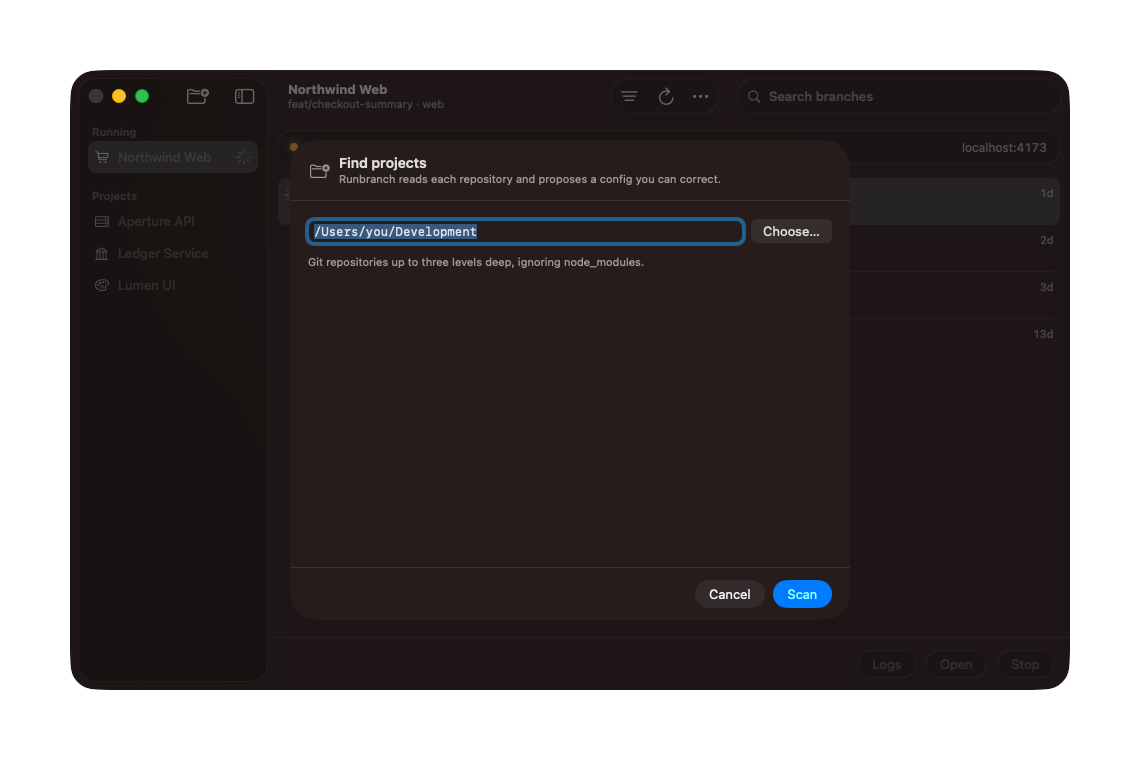
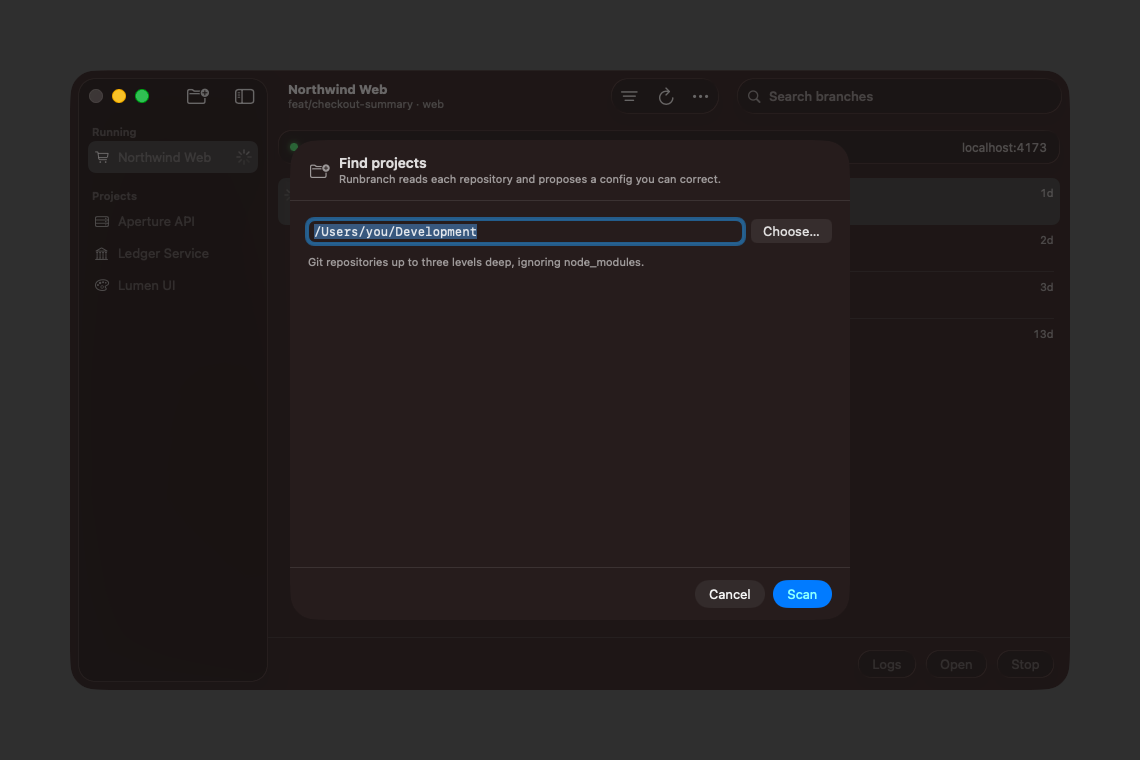
Fix the health indicator never updating, and give sheets their chrome back
RunStrip held the health monitor as a plain property rather than an
@ObservedObject, so it never subscribed to the monitor's changes and kept
whatever it drew first. A run that had gone healthy still read "Starting"
indefinitely — which is the "why does this say starting after twenty
minutes" behaviour, not a screenshot artefact. The poll was always
returning 200; nothing was listening.

Sheets had no shadow, which is most of what makes a sheet read as
floating. Three causes, found in this order:

  - ignoreShadowsDisplay defaults to dropping shadows. Setting it false
    was necessary but not sufficient.
  - An application-scoped filter excludes shadows regardless, since a
    shadow is not attributable to the app. Capturing the display and
    cropping to our windows keeps them. This is also what finally makes a
    backdrop panel work: scoped to the app, it was excluded along with
    everything else, which is why an earlier magenta probe changed
    nothing at all.
  - The backdrop was being placed on NSScreen.main, which is the screen
    with keyboard focus — on this two-display setup, routinely the other
    one. It has to be the window's own screen.

The project sheet was also as tall as the window itself, so it hung past
the bottom edge and read as a detached panel rather than a sheet.

Captures now wait for health to resolve instead of hoping a fixed sleep
outlasts the first poll, which has a 3s timeout.

Changed region(s): [[0.0, 0.0, 1.0, 1.0]]

diff --git a/app/RunBranch.swift b/app/RunBranch.swift
@@ -601,7 +601,10 @@ struct Badge: View {
 /// might click. So: no labels, and the clickable parts look clickable.
 struct RunStrip: View {
     let state: RunState
-    let health: HealthMonitor
+    /// Observed, not just held. As a plain property this view never subscribed
+    /// to the monitor's changes, so the indicator kept whatever it first drew:
+    /// a run that had gone healthy still read "Starting" indefinitely.
+    @ObservedObject var health: HealthMonitor
     let epoch: TimeInterval
 
     static func elapsed(since epoch: TimeInterval, now: Date) -> String {
@@ -941,6 +944,10 @@ enum Screenshot {
         return a[i + 1]
     }
 
+    /// Set while capturing, so the backdrop panel can be excluded from the
+    /// crop region — it is one of this process's windows and covers the screen.
+    nonisolated(unsafe) static var backdropNumber: Int?
+
     /// Which screen to photograph. The docs need more than one, and opening a
     /// sheet by hand before every capture is not automation.
     enum Scene: String { case main, settings, scan, logs }
@@ -1012,6 +1019,27 @@ enum Screenshot {
             window.setFrame(NSRect(x: vf.midX - size.width / 2, y: vf.midY - size.height / 2,
                                    width: size.width, height: size.height), display: true)
         }
+        // An opaque panel behind the window, just below it in the stacking
+        // order. The capture below is display-bounded — the only way to get
+        // real window shadows — so this is what hides every other app and
+        // keeps the surround identical from one run to the next. An earlier
+        // attempt at this had no effect because the capture was scoped to this
+        // application, which excluded the panel along with everything else.
+        var backdrop: NSWindow?
+        if let screen = window.screen ?? NSScreen.main {
+            let b = NSWindow(contentRect: screen.frame, styleMask: [.borderless],
+                             backing: .buffered, defer: false)
+            b.backgroundColor = NSColor(calibratedWhite: 0.16, alpha: 1)
+            b.isOpaque = true
+            b.ignoresMouseEvents = true
+            b.level = NSWindow.Level(rawValue: window.level.rawValue - 1)
+            b.collectionBehavior = [.canJoinAllSpaces, .fullScreenAuxiliary]
+            b.orderFront(nil)
+            backdrop = b
+            backdropNumber = b.windowNumber
+        }
+        defer { backdrop?.orderOut(nil) }
+
         window.makeKeyAndOrderFront(nil)
         NSApp.activate(ignoringOtherApps: true)
         try? await Task.sleep(for: .seconds(3.5))     // layout, health poll, glass
@@ -1039,6 +1067,7 @@ enum Screenshot {
                 ours = content.windows.filter {
                     $0.owningApplication?.processID == mypid && $0.isOnScreen
                         && $0.frame.width > 1 && $0.frame.height > 1
+                        && Int($0.windowID) != Screenshot.backdropNumber
                 }
                 if !ours.isEmpty { break }
                 try? await Task.sleep(for: .milliseconds(400))
@@ -1092,12 +1121,13 @@ enum Screenshot {
 
             let filter: SCContentFilter
             var region: CGRect?
-            if let display, let me = content.applications.first(where: {
-                $0.processID == mypid
-            }) {
-                filter = SCContentFilter(display: display,
-                                         including: [me],
-                                         exceptingWindows: [])
+            if let display {
+                // The whole display, cropped below to our windows plus a
+                // margin. Scoping the filter to this application produced a
+                // clean background but no shadows at all, and a macOS sheet
+                // reads as floating almost entirely through its shadow. The
+                // backdrop above is what keeps everything else out of frame.
+                filter = SCContentFilter(display: display, excludingWindows: [])
                 // Union of our windows, padded so the drop shadow is not
                 // sheared off, then clamped to the display.
                 let union = ourWindows.dropFirst().reduce(
@@ -1121,6 +1151,13 @@ enum Screenshot {
             cfg.showsCursor = false
             cfg.scalesToFit = false
             cfg.backgroundColor = .clear
+            // Shadows are dropped by default, which is why sheets came out
+            // looking pasted on: a macOS sheet is read as floating almost
+            // entirely through its shadow. These are the display-bounded
+            // variants, because the filter above is display-bounded; the
+            // single-window ones do nothing here.
+            cfg.ignoreShadowsDisplay = false
+            cfg.ignoreGlobalClipDisplay = false
             let shot = try await SCScreenshotManager.captureImage(
                 contentFilter: filter, configuration: cfg)
             guard let png = NSBitmapImageRep(cgImage: shot)
@@ -1398,7 +1435,9 @@ struct ProjectEditor: View {
             }
             .padding(.horizontal, 18).padding(.vertical, 12)
         }
-        .frame(width: 560, height: 620)
+        // Shorter than the window, so the sheet sits inside its parent rather
+        // than hanging past the bottom edge and reading as a detached panel.
+        .frame(width: 560, height: 500)
         .task {
             let loaded = await Task.detached { Engine.get(projectID) }.value
             f = loaded; original = loaded; loading = false
@@ -1874,6 +1913,19 @@ struct ContentView: View {
                     showingLogs = true
                 }
                 if Screenshot.scene != .main { try? await Task.sleep(for: .seconds(1.2)) }
+                // The first health poll can take up to its 3s timeout, and the
+                // watch only starts once state has loaded. Waiting for a real
+                // answer beats padding a sleep and hoping.
+                var settle = 0
+                while settle < 60 {
+                    let pending = health.status.values.contains {
+                        $0 == .unknown || $0 == .starting
+                    }
+                    if !pending && !health.status.isEmpty { break }
+                    if health.status.isEmpty && settle > 20 { break }
+                    try? await Task.sleep(for: .milliseconds(200))
+                    settle += 1
+                }
                 await Screenshot.captureAndQuit(to: path)
             }
         }
